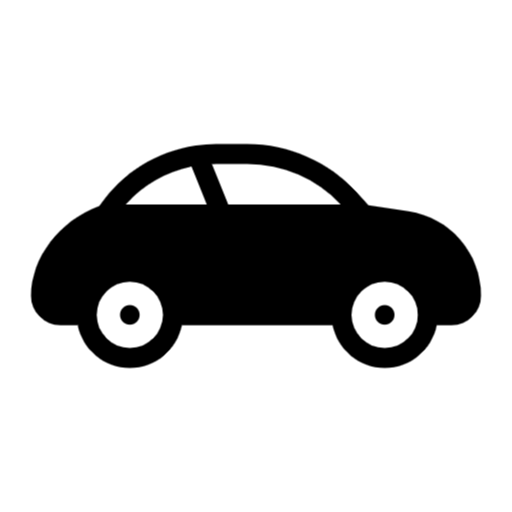
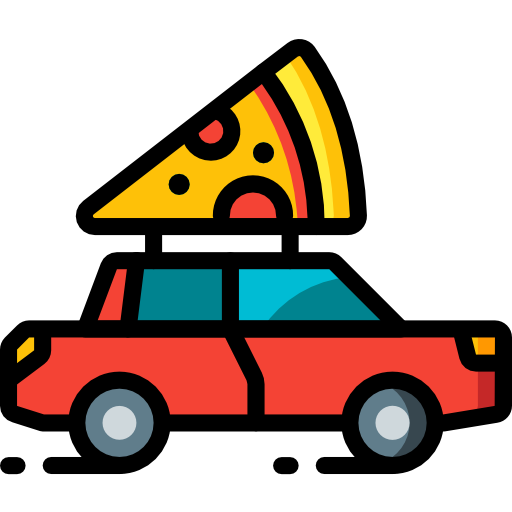
re-designed vehicle picker

diff --git a/frontend/screens/RegisterScreen.js b/frontend/screens/RegisterScreen.js
@@ -103,14 +103,35 @@ export default function RegisterScreen() {
                 <View style={styles.icons}>
 
 
-                    <TouchableOpacity style={styles.iconContainer} onPress={() => handleVehicleClick("car")}>
-                        <Image style={styles.icon} source={car} />
+                    <TouchableOpacity style={styles.wrapperCar} onPress={() => handleVehicleClick("car")}>
+                        <View style={styles.wrapperIcon}>
+                            <Image style={styles.icon} source={car} />
+                        </View>
+                        <View style={styles.wrapperText}>
+                            <Text style={styles.boldBlackText}>Car</Text>
+                            <Text>50-80 km/h</Text>
+                        </View>
                     </TouchableOpacity>
-                    <TouchableOpacity style={styles.iconContainer} onPress={() => handleVehicleClick("motorCycle")}>
-                        <Image style={styles.icon} source={motorCycle} />
+                    <TouchableOpacity style={styles.wrapperMotorCycle} onPress={() => handleVehicleClick("motorCycle")}>
+
+                        <View style={styles.wrapperIcon}>
+
+                            <Image style={styles.icon} source={motorCycle} />
+                        </View>
+                        <View style={styles.wrapperText}>
+                            <Text style={styles.boldBlackText}>Scooter</Text>
+                            <Text>30-45 km/h</Text>
+                        </View>
                     </TouchableOpacity>
-                    <TouchableOpacity style={styles.iconContainer} onPress={() => handleVehicleClick("cycle")}>
-                        <Image style={styles.icon} source={cycle} />
+                    <TouchableOpacity style={styles.wrapperCycle} onPress={() => handleVehicleClick("cycle")}>
+                        <View style={styles.wrapperIcon}>
+
+                            <Image style={styles.icon} source={cycle} />
+                        </View>
+                        <View style={styles.wrapperText}>
+                            <Text style={styles.boldWhiteText}>Bike</Text>
+                            <Text style={styles.whiteTextNoFont}>15-25 km/h</Text>
+                        </View>
                     </TouchableOpacity>
                 </View>
 
@@ -172,7 +193,7 @@ const styles = StyleSheet.create({
         justifyContent: 'center',
         alignItems: 'center',
         backgroundColor: "#FFB6B9",
-        padding: 8
+        padding: 24
 
     },
     inputContainer: {
@@ -252,20 +273,75 @@ const styles = StyleSheet.create({
 
     icons: {
         display: "flex",
-        flexDirection: "row",
     },
 
-    iconContainer: {
-        width: 100,
+    wrapperCar: {
+        width: "100%",
         height: 140,
         alignItems: "center",
-        justifyContent: "center",
         margin: 20,
-        borderWidth: 3,
         overflow: "hidden",
-        borderColor: "#61C0BF",
-        borderRadius: 20
+        backgroundColor: "#FDF4F5",
+        padding: 16,
+        display: "flex",
+        flexDirection: "row",
+        gap: 20,
+        borderRadius: 20,
     },
+
+    wrapperMotorCycle: {
+        width: "100%",
+        height: 140,
+        alignItems: "center",
+        margin: 20,
+        overflow: "hidden",
+        backgroundColor: "#FFF8EF",
+        padding: 16,
+        display: "flex",
+        flexDirection: "row",
+        gap: 20,
+        borderRadius: 20,
+    },
+
+    wrapperCycle: {
+        width: "100%",
+        height: 140,
+        alignItems: "center",
+        margin: 20,
+        overflow: "hidden",
+        backgroundColor: "#4FCAAE",
+        padding: 16,
+        display: "flex",
+        flexDirection: "row",
+        gap: 20,
+        borderRadius: 20,
+    },
+
+    wrapperIcon: {
+        width: "45%",
+    },
+
+    wrapperText: {
+        flex: 1,
+    },
+
+    boldBlackText: {
+        fontWeight: 600,
+        fontFamily: 'anti-bold',
+        fontSize: 20,
+    },
+    boldWhiteText: {
+        fontWeight: 600,
+        fontFamily: 'anti-bold',
+        fontSize: 20,
+        color: "white",
+    },
+
+
+    whiteTextNoFont: {
+        color: "white",
+    },
+
 
     icon: {
         width: '100%',
